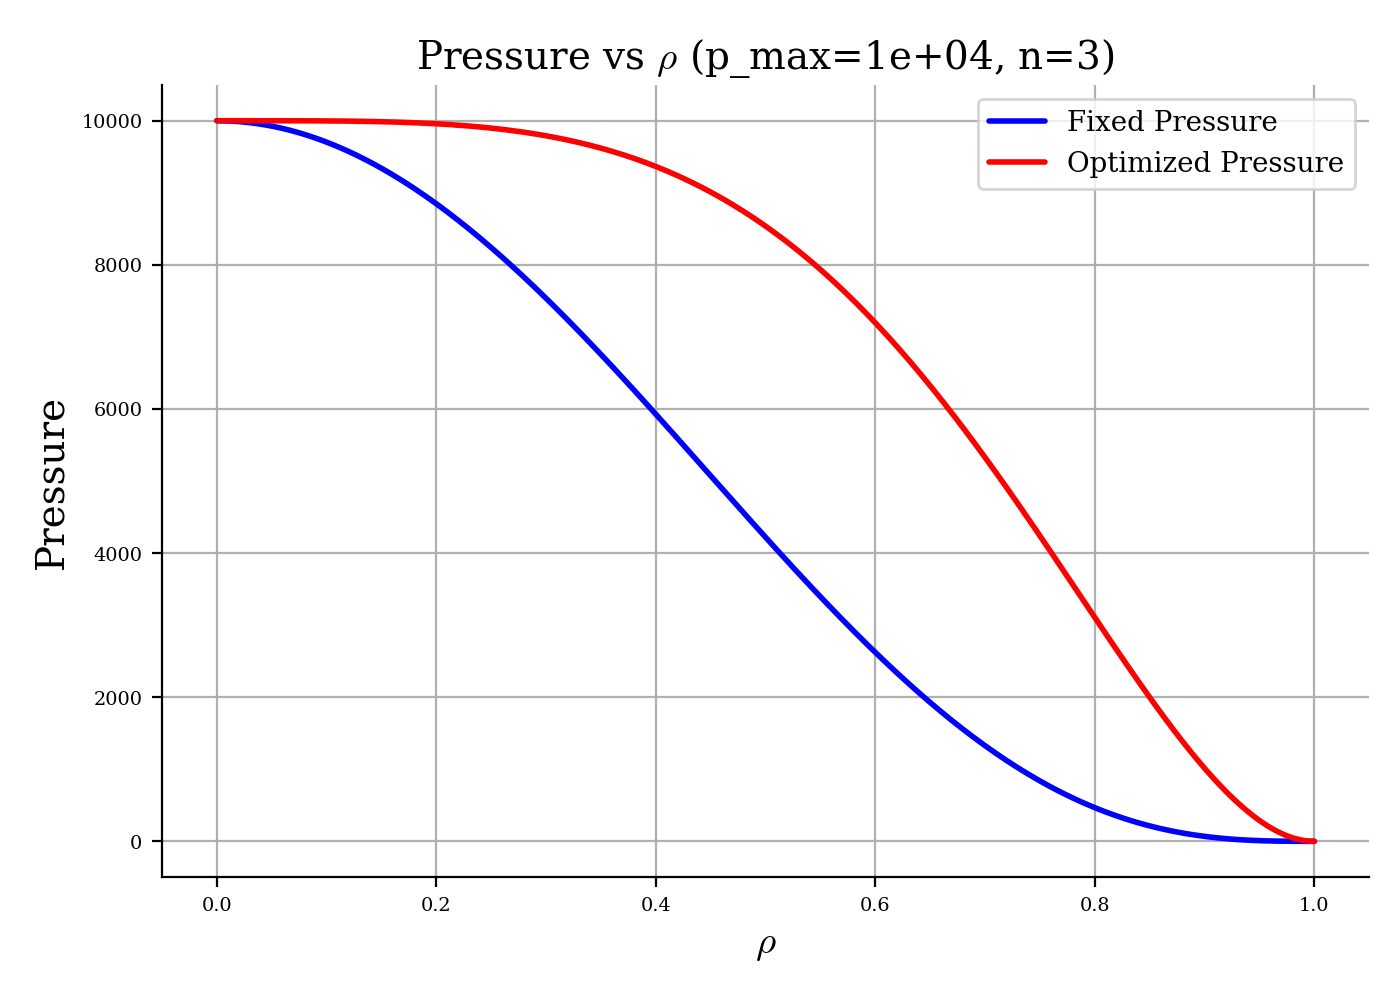
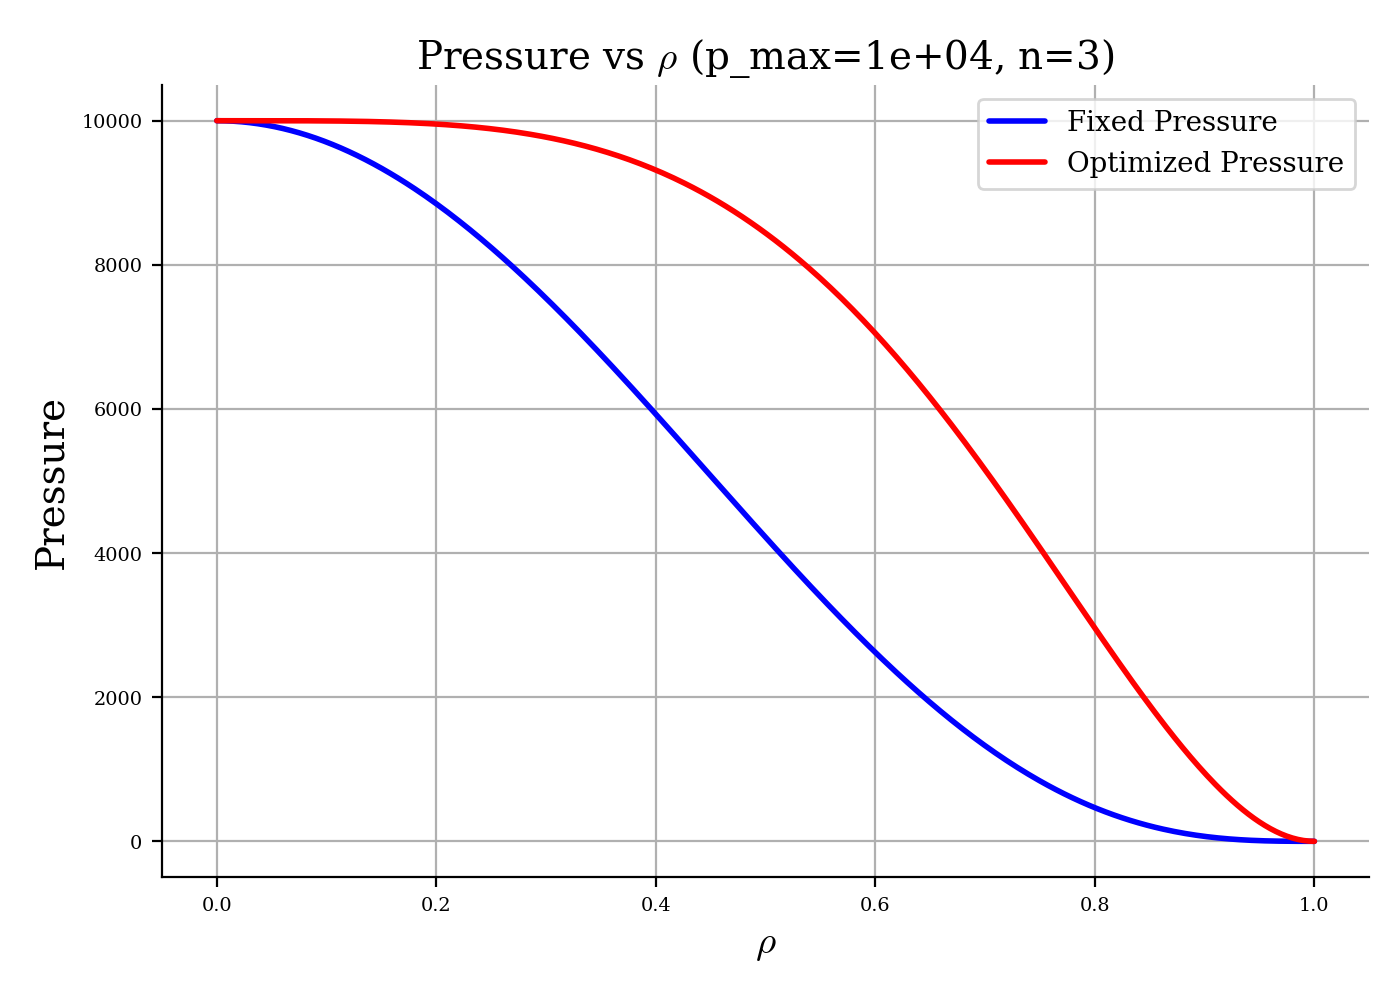
bug with monotonicity func

diff --git a/research/poly/continuation/opt.py b/research/poly/continuation/opt.py
@@ -31,16 +31,15 @@ from desc.objectives import (
 
 
 #============== OPTIMIZER FUNCTION ============================================================================================================================
-def run_optimization(eq_init, optimizer, p_scale, out_dir, opt_config, FXD: bool):
+def run_optimization(eq_0, optimizer, p_scale, out_dir, opt_config, FXD: bool):
     """
     Run optimization with objectives/constraints controlled by config dict.
 
     FXD = True  -> fixed-pressure family
     FXD = False -> constrained/optimized-pressure family
     """
-    eq_0 = eq_init.copy()
 
-    #---------------------------------------------
+    #=============================================
     # Unpacking optimization configuration values:
     target_aspect_ratio = opt_config["target_aspect_ratio"]
     ftol = opt_config["ftol"]
@@ -51,12 +50,14 @@ def run_optimization(eq_init, optimizer, p_scale, out_dir, opt_config, FXD: bool
     toggle_FXD = opt_config["toggle_FXD"]
     toggle_CON = opt_config["toggle_CON"]
     toggle = toggle_FXD if FXD else toggle_CON
-    #---------------------------------------------
+    #=========================================
+
 
     constraints_list = []
     objectives_list = []
 
-    #===========================
+
+    #=========================
     if FXD: # (fixed pressure)
         #----------------------
         # Construction of constraints:
@@ -68,9 +69,9 @@ def run_optimization(eq_init, optimizer, p_scale, out_dir, opt_config, FXD: bool
             constraints_list.append(FixPsi(eq=eq_0))
         if toggle.get("fix_pressure", True):
             constraints_list.append(FixPressure(eq=eq_0))
-        #----------------------
+        #------------------------------------------------
 
-        #----------------------
+        #----------------------------
         # Construction of objectives:
         if toggle.get("forcebalance_objective", False):
             objectives_list.append(ForceBalance(eq=eq_0, target=0.0))
@@ -84,10 +85,11 @@ def run_optimization(eq_init, optimizer, p_scale, out_dir, opt_config, FXD: bool
             objectives_list.append(BallooningStability(eq=eq_0, target=0.0))
         if toggle.get("mercier", False):
             objectives_list.append(MercierStability(eq=eq_0, target=0.0))
-        #----------------------
-    #===========================
+        #----------------------------------------------------------------
+    #====================================================================
 
-    #=========================
+
+    #===========================
     else: # (optimized pressure)
         #------------------------------------
         # Construction of custom constraints:
@@ -123,19 +125,19 @@ def run_optimization(eq_init, optimizer, p_scale, out_dir, opt_config, FXD: bool
                     target=0.0,
                 )
             )
-        #------------------------------------
-
         #----------------------
-        # Construction of constraints:
-        if toggle.get("forcebalance_constraint", False):
+
+        #--------------------------------------
+        # Construction of standard constraints:
+        if toggle.get("forcebalance_constraint", True):
             constraints_list.append(ForceBalance(eq=eq_0))
         if toggle.get("fix_iota", False):
             constraints_list.append(FixIota(eq=eq_0))
         if toggle.get("fix_psi", False):
             constraints_list.append(FixPsi(eq=eq_0))
-        #----------------------
+        #-------------------------------------------
 
-        #----------------------
+        #----------------------------
         # Construction of objectives:
         if toggle.get("forcebalance_objective", False):
             objectives_list.append(ForceBalance(eq=eq_0, target=0.0))
@@ -159,10 +161,11 @@ def run_optimization(eq_init, optimizer, p_scale, out_dir, opt_config, FXD: bool
                     normalize=False,
                 )
             )
-        #----------------------
-    #=========================
+        #---------------------------
+    #===============================
 
-    #---------------------------------------
+
+    #=======================================
     # Finalizing optimization objects/setup:
     constraints = tuple(constraints_list)
 
@@ -170,9 +173,10 @@ def run_optimization(eq_init, optimizer, p_scale, out_dir, opt_config, FXD: bool
         raise ValueError("No optimization objectives were selected.")
 
     objectives = ObjectiveFunction(objectives_list)
-    #---------------------------------------
+    #==============================================
 
-    #-----------------------
+
+    #======================
     # Running optimization:
     eq_opt, opt_result = eq_0.optimize(
         objective=objectives,
@@ -185,7 +189,7 @@ def run_optimization(eq_init, optimizer, p_scale, out_dir, opt_config, FXD: bool
         copy=True,
         verbose=3,
     )
-    #-----------------------
+    #=============
 
     save_name = "opt_FXD.h5" if FXD else "opt_CON.h5"
     save_path = os.path.join(out_dir, save_name)

diff --git a/research/poly/continuation/config.py b/research/poly/continuation/config.py
@@ -1,15 +1,21 @@
 import sys
 sys.path.append("/Users/macdaddi/DESC")
+from desc import set_device
 from desc.geometry import FourierRZToroidalSurface
 from desc.profiles import PowerSeriesProfile
-from driver import run_from_config
 
 
 
 
 
+
+
+
+
+
+#===================================================================================================================================================
 #============== EQUILIBRIUM INPUTS ==============#
-
+#-------------------------
 # Number of field periods:
 NFP = 10
 
@@ -26,8 +32,14 @@ surface_init = FourierRZToroidalSurface(
 iota_init = PowerSeriesProfile([1, 0, 2])
 
 # Equilibrium resolution:
-eq_resolution = [8, 8, 3]
+L = 8
+M = 8
+N = 3
+eq_resolution = [L, M, N]
+#------------------------
 
+
+#--------------------
 # Grouping eq inputs:
 eq_config = {
     "NFP": NFP,
@@ -35,13 +47,20 @@ eq_config = {
     "iota_init": iota_init,
     "eq_resolution": eq_resolution,
 }
+#----------------------------------
 #=================================================#
 
 
 
 
 
+
+
+
+
+
 #============== OPTIMIZATION INPUTS ==============#
+#----------------------
 target_aspect_ratio = 6
 ftol = 5e-3
 xtol = 1e-3
@@ -54,11 +73,11 @@ toggle_FXD = {
     "fix_iota": True,
     "fix_psi": True,
     "fix_pressure": True,
-    "forcebalance_objective": False,
+    "forcebalance_objective": True,
     "aspect_ratio": True,
     "qs": True,
-    "ballooning": False,
-    "mercier": False,
+    "ballooning": True,
+    "mercier": True,
 }
 
 # Optimized-pressure-family toggles (bools):
@@ -67,21 +86,24 @@ toggle_CON = {
     "pressure_edge": True,
     "grad_pressure_axis": True,
     "grad_pressure_edge": True,
-    "forcebalance_constraint": False,
+    "forcebalance_constraint": True,
     "fix_iota": True,
     "fix_psi": True,
-    "forcebalance_objective": False,
+    "forcebalance_objective": True,
     "aspect_ratio": True,
     "qs": True,
-    "ballooning": False,
-    "mercier": False,
+    "ballooning": True,
+    "mercier": True,
     "monotonicity": True,
 }
 
 # Ordered list of optimizers:
 # [optimizer1, optimizer2]
 optimizers = ["proximal-lsq-exact", None]
+#----------------------------------------
 
+
+#---------------------
 # Grouping opt inputs:
 opt_config = {
     "target_aspect_ratio": target_aspect_ratio,
@@ -93,35 +115,60 @@ opt_config = {
     "toggle_CON": toggle_CON,
     "optimizers": optimizers,
 }
+#----------------------------
 #=================================================#
 
 
 
 
 
-#============== DRIVER INPUTS ====================#
+
+
+
+
+
+#================ DRIVER INPUTS ==================#
+#-------------------
+# GPU accessibility:
+GPU_ON = False
+if GPU_ON:
+    set_device("gpu")
+
 # Pressure maxima to test:
 p_maxima = [1e4]
 
 # Polynomial orders to test:
 n_set = [3]
+#----------
 
+
+#------------------------
 # Grouping driver inputs:
 driver_config = {
     "p_maxima": p_maxima,
     "n_set": n_set,
 }
+#------------------
 #=================================================#
+#===================================================================================================================================================
 
 
 
 
 
-#============== RUN IT =======================================================================================================================================
+
+
+
+
+
+#===================================================================================================================================================
+#==================== RUN IT =====================#
+from driver import run_from_config
 if __name__ == "__main__":
     run_from_config(
         eq_config=eq_config,
         opt_config=opt_config,
         driver_config=driver_config,
     )
-#==============================================================================================================================================================
+#=================================================#
+#===================================================================================================================================================

diff --git a/research/poly/poly_constraints.py b/research/poly/poly_constraints.py
@@ -2,8 +2,13 @@ import numpy as np
 import jax.numpy as jnp
 
 
-#------------------------------------------
-# Polynomial constraints:
+
+
+
+
+#============== PRESSURE CONSTRAINTS/OBJECTIVES =====================================================================================
+#=============
+# Constraints:
 def pressure_axis(params):
     """
     Pressure on axis (rho=0)
@@ -40,12 +45,12 @@ def grad_pressure_edge(params):
     grad_coeff = params['p_l'][1:]
     order = jnp.arange(1, len(grad_coeff)+1)
     return (order * grad_coeff).sum()
+#====================================
 
 
 
-
-#----------------------------------------------------------------
-# Polynomial objective(s):
+#============
+# Objectives:
 def poly_monotonicity(grid, data):
     """
     Ensures monotonic decrease of pressure for polynomial profile
@@ -65,5 +70,5 @@ def poly_monotonicity(grid, data):
     dp = p[1:] - p[:-1] # pressure differences: p[i+1] - p[i]
     violations = jnp.maximum(0.0, dp) # array where nonzero values = positive slope 
     return jnp.sum(violations**2) # largest dp chosen, penalized by optimizer
-
-
+#============================================================================
+#===================================================================================================================================

diff --git a/research/poly/continuation/driver.py b/research/poly/continuation/driver.py
@@ -1,5 +1,3 @@
-from desc import set_device
-set_device("gpu")
 
 import numpy as np
 import matplotlib.pyplot as plt
@@ -166,12 +164,13 @@ def comparison(
                 out_dir=out_dir,
                 eq_config=eq_config,
             )
+            eq_0 = eq_init.copy()
             #===================================
 
             #=========================================================
             # 1st round of fixed and optimized pressure optimizations:
             eq_opt_FXD, opt_result_FXD = run_optimization(
-                eq_init,
+                eq_0,
                 optimizer1,
                 p_axis,
                 out_dir=out_dir,
@@ -179,7 +178,7 @@ def comparison(
                 FXD=True,
             )
             eq_opt_CON, opt_result_CON = run_optimization(
-                eq_init,
+                eq_0,
                 optimizer1,
                 p_axis,
                 out_dir=out_dir,
